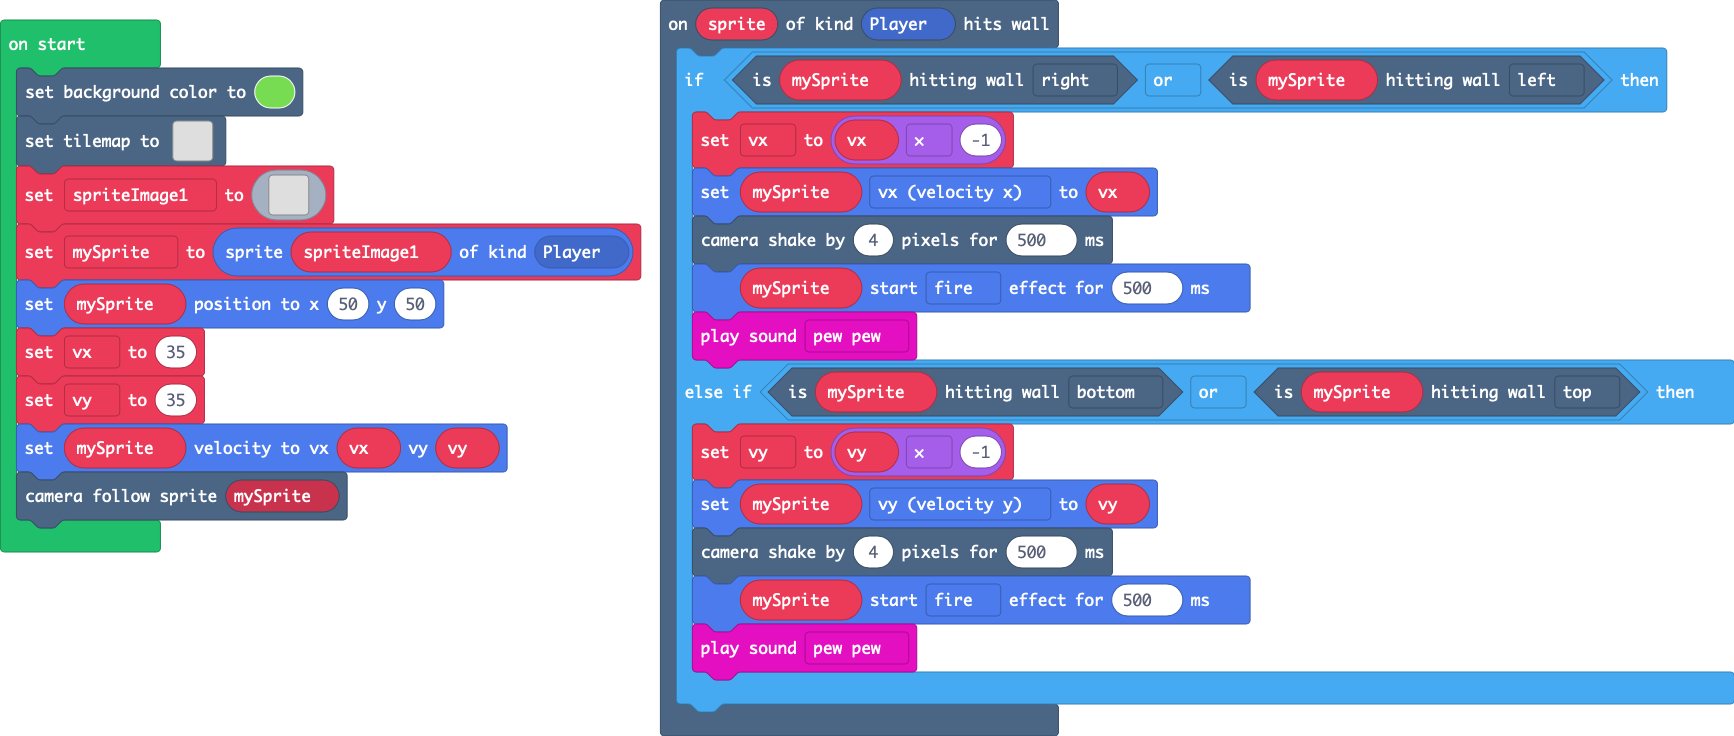
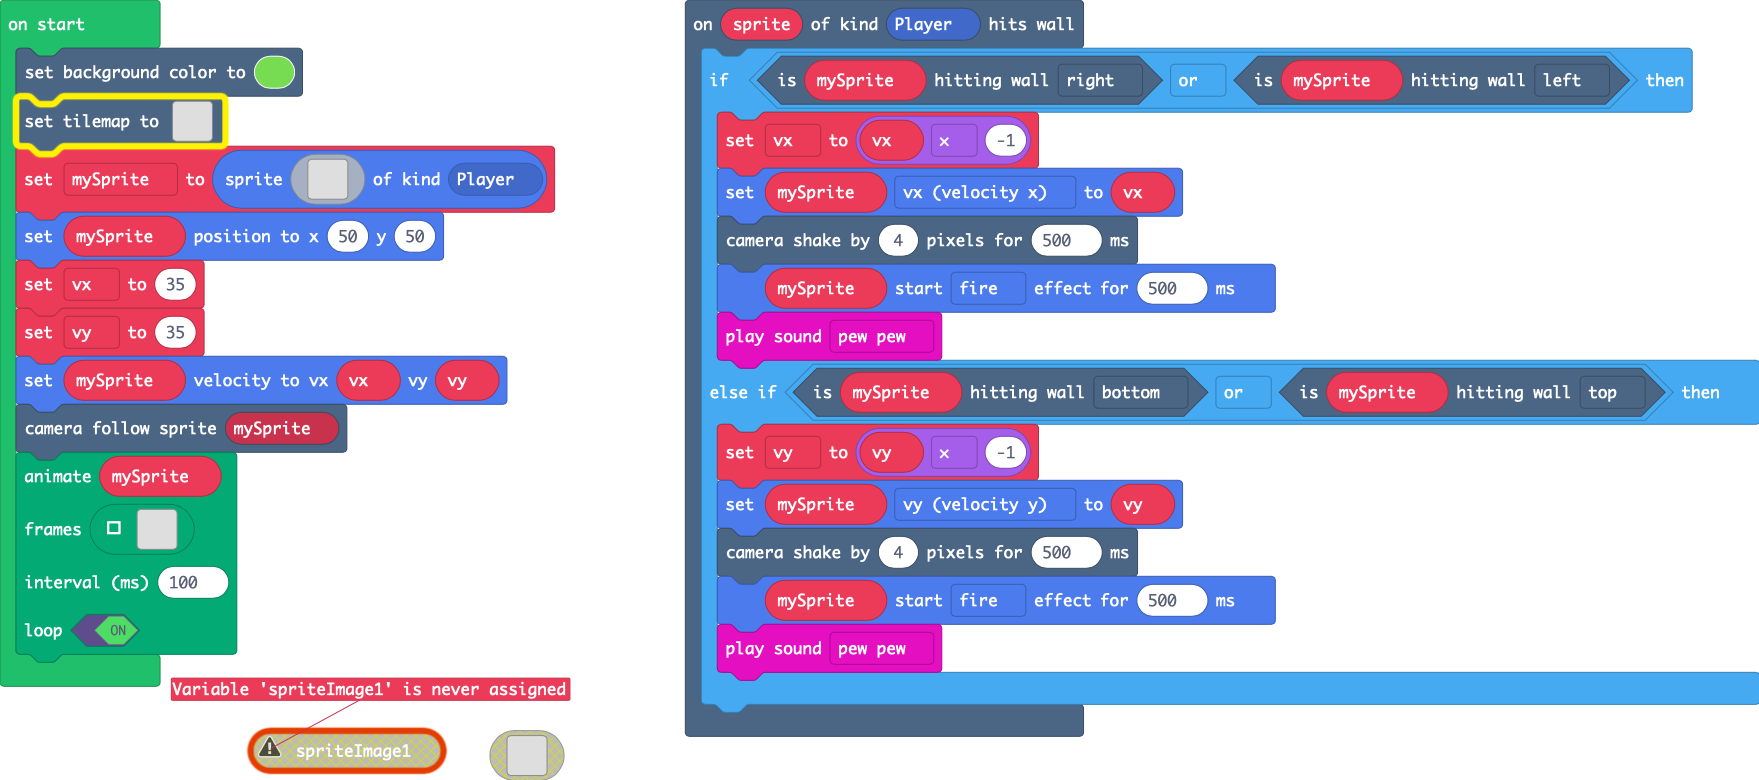
added a player animation and updated the background image

diff --git a/main.ts b/main.ts
@@ -18,6 +18,25 @@ namespace myTiles {
 . . . . . . . . . . . . . . . . 
 . . . . . . . . . . . . . . . . 
 `
+    //% blockIdentity=images._tile
+    export const tile1 = img`
+f f f f f f f f f f f f f f f f 
+f f f f f f f f f f f f f f f f 
+f f f f f f f f f f f f f f f f 
+f f f f f f f f f f f f f f f f 
+f 1 f f f f f f f f f f f f f f 
+f f f f f f f f f f f f f f f f 
+f f f f f f f f f f f f f f f f 
+f f f f f f f f f f f f f f f f 
+f f f f f f f f f f f f f f f 1 
+f f f f f f f f f f f f f f f f 
+f f f f f f f f f f f f f f f f 
+f f f f f f f f f f f f f f f f 
+f f f f f f f f f f f f f f f f 
+f f f f f f 1 f f f f f f f f f 
+f f f f f f f f f f f f f f f f 
+f f f f f f f f f f f f f f f f 
+`
 }
 scene.onHitWall(SpriteKind.Player, function (sprite) {
     if (mySprite.isHittingTile(CollisionDirection.Right) || mySprite.isHittingTile(CollisionDirection.Left)) {
@@ -39,7 +58,7 @@ let vx = 0
 let mySprite: Sprite = null
 scene.setBackgroundColor(7)
 tiles.setTilemap(tiles.createTilemap(
-            hex`1000100005050505050505050505050505050505050104040404040404040404040605050502050505050505050505050507050505020505050505050505050505070505050205050505050505050505050705050502050505050505050505050507050505020505050505050505050505070505050205050505050505050505050705050502050505050505050505050507050505020505050505050505050505070505050205050505050505050505050705050502050505050505050505050507050505020505050505050505050505070505050205050505050505050505050705050503090909090909090909090908050505050505050505050505050505050505`,
[1 lines of base64/hex data omitted]
             img`
 2 2 2 2 2 2 2 2 2 2 2 2 2 2 2 . 
 2 . . . . . . . . . . . . . 2 . 
@@ -58,10 +77,10 @@ tiles.setTilemap(tiles.createTilemap(
 2 . . . . . . . . . . . . . 2 . 
 2 2 2 2 2 2 2 2 2 2 2 2 2 2 2 . 
 `,
-            [myTiles.tile0,sprites.dungeon.darkGroundNorthWest0,sprites.dungeon.darkGroundWest,sprites.dungeon.darkGroundSouthWest0,sprites.dungeon.darkGroundNorth,sprites.dungeon.darkGroundCenter,sprites.dungeon.darkGroundNorthEast0,sprites.dungeon.darkGroundEast,sprites.dungeon.darkGroundSouthEast0,sprites.dungeon.darkGroundSouth,sprites.dungeon.darkGroundNorthWest1],
+            [myTiles.tile0,sprites.dungeon.darkGroundNorthWest0,sprites.dungeon.darkGroundWest,sprites.dungeon.darkGroundSouthWest0,sprites.dungeon.darkGroundNorth,sprites.dungeon.darkGroundCenter,sprites.dungeon.darkGroundNorthEast0,sprites.dungeon.darkGroundEast,sprites.dungeon.darkGroundSouthEast0,sprites.dungeon.darkGroundSouth,sprites.dungeon.darkGroundNorthWest1,myTiles.tile1],
             TileScale.Sixteen
         ))
-let spriteImage1 = img`
+mySprite = sprites.create(img`
 . . . . . . . . . . . . . . . . 
 . . . . . . . . . . . . . . . . 
 . . . . . . . . . . . . . . . . 
@@ -78,10 +97,83 @@ let spriteImage1 = img`
 . . . . . . . . . . . . . . . . 
 . . . . . . . . . . . . . . . . 
 . . . . . . . . . . . . . . . . 
-`
-mySprite = sprites.create(spriteImage1, SpriteKind.Player)
+`, SpriteKind.Player)
 mySprite.setPosition(50, 50)
 vx = 35
 vy = 35
 mySprite.setVelocity(vx, vy)
 scene.cameraFollowSprite(mySprite)
+animation.runImageAnimation(
+mySprite,
+[img`
+. . . . . . . . . . . . . . . . 
+. . . . . . . . . . . . . . . . 
+. . . . . . . . . . . . . . . . 
+. . . . . . . . . . . . . . . . 
+. . . . . . 8 . . . . . . . . . 
+. . . . . . . 8 . . . . . . . . 
+. . . . . . . 8 8 . . . . . . . 
+. . . . . . 8 9 8 8 . . . . . . 
+. . . . . . 8 8 9 8 . . . . . . 
+. . . . . . . 8 8 . . . . . . . 
+. . . . . . . . 8 . . . . . . . 
+. . . . . . . . . 8 . . . . . . 
+. . . . . . . . . . . . . . . . 
+. . . . . . . . . . . . . . . . 
+. . . . . . . . . . . . . . . . 
+. . . . . . . . . . . . . . . . 
+`,img`
+. . . . . . . . . . . . . . . . 
+. . . . . . . . . . . . . . . . 
+. . . . . . . . . . . . . . . . 
+. . . . . . . . . . . . . . . . 
+. . . . . . . . . . . . . . . . 
+. . . . 8 . . . . . . . . . . . 
+. . . . 8 . . 8 8 . . . . . . . 
+. . . . . 8 8 8 9 8 . . . . . . 
+. . . . . . 8 9 8 8 8 . . . . . 
+. . . . . . . 8 8 . . 8 . . . . 
+. . . . . . . . . . . 8 . . . . 
+. . . . . . . . . . . . . . . . 
+. . . . . . . . . . . . . . . . 
+. . . . . . . . . . . . . . . . 
+. . . . . . . . . . . . . . . . 
+. . . . . . . . . . . . . . . . 
+`,img`
+. . . . . . . . . . . . . . . . 
+. . . . . . . . . . . . . . . . 
+. . . . . . . . . . . . . . . . 
+. . . . . . . . . . . . . . . . 
+. . . . . . . . . . . . . . . . 
+. . . . . . . . . . . . . . . . 
+. . . . . . . 8 8 . . 8 . . . . 
+. . . . . . 8 9 8 8 8 . . . . . 
+. . . . . 8 8 8 9 8 . . . . . . 
+. . . . 8 . . 8 8 . . . . . . . 
+. . . . . . . . . . . . . . . . 
+. . . . . . . . . . . . . . . . 
+. . . . . . . . . . . . . . . . 
+. . . . . . . . . . . . . . . . 
+. . . . . . . . . . . . . . . . 
+. . . . . . . . . . . . . . . . 
+`,img`
+. . . . . . . . . . . . . . . . 
+. . . . . . . . . . . . . . . . 
+. . . . . . . . . . . . . . . . 
+. . . . . . . . . . . . . . . . 
+. . . . . . . . . 8 8 . . . . . 
+. . . . . . . . 8 . . . . . . . 
+. . . . . . . 8 8 . . . . . . . 
+. . . . . . 8 8 9 8 . . . . . . 
+. . . . . . 8 9 8 8 . . . . . . 
+. . . . . . . 8 8 . . . . . . . 
+. . . . . . . 8 . . . . . . . . 
+. . . . . 8 8 . . . . . . . . . 
+. . . . . . . . . . . . . . . . 
+. . . . . . . . . . . . . . . . 
+. . . . . . . . . . . . . . . . 
+. . . . . . . . . . . . . . . . 
+`],
+100,
+true
+)
